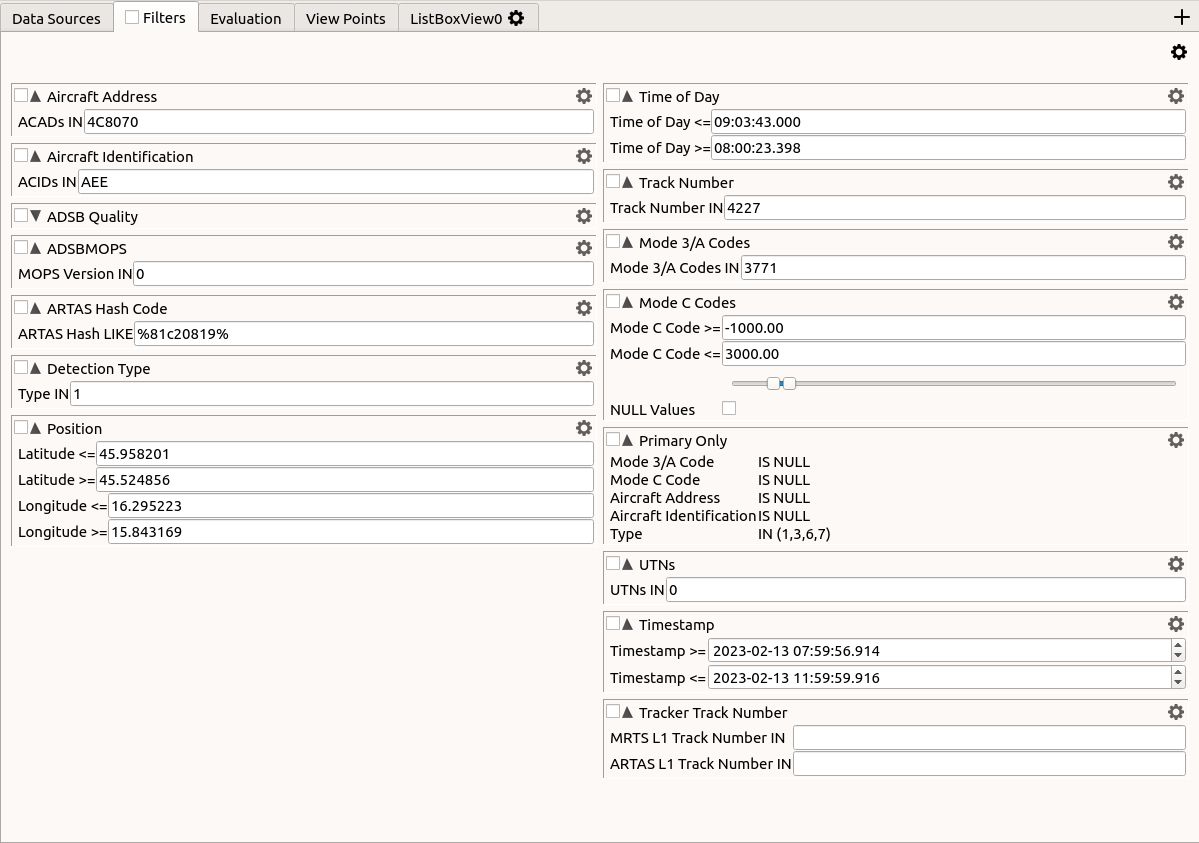
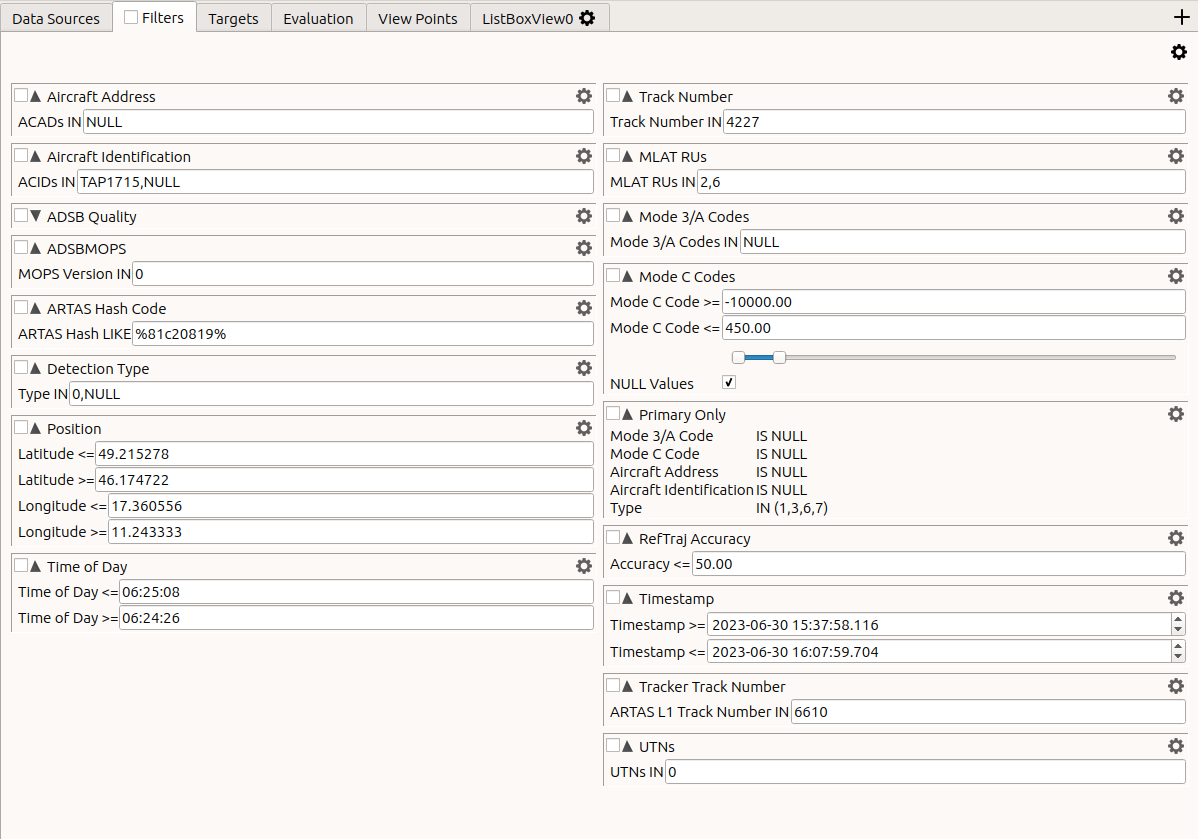
doc up

diff --git a/doc/user_manual/filters/filters.tex b/doc/user_manual/filters/filters.tex
@@ -116,6 +116,16 @@ When active, this filter forces loading of data with the given track numbers, so
 
 Please note that ADS-B target reports can also contain a track number in ASTERIX, but since the information can not currently be mapped to the database (missing in schema), this filter does not influence ADS-B data loading.
 
+\subsection{MLAT RUs Filter}
+
+\begin{figure}[H]
+  \center
+    \includegraphics[width=12cm,frame]{figures/filter_mlatrus.png}
+  \caption{MLAT RUs filter}
+\end{figure}
+
+When active, this filter forces loading of MLAT data where at least one of the given RUs participated.
+
 \subsection{Mode 3/A Codes Filter}
 
 \begin{figure}[H]
@@ -148,6 +158,28 @@ When active, this filter forces loading of data with a barometric altitude insid
 
 When active, this filter forces loading of data without any secondary attributes.
 
+\subsection{RefTraj Accuracy}
+
+\begin{figure}[H]
+  \center
+    \includegraphics[width=12cm,frame]{figures/filter_reftrajacc.png}
+  \caption{Timestamp filter}
+\end{figure}
+
+When active, this filter forces loading of RefTraj data with of a lower Square-Root-Sum value of the standard deviations than the given threshold.
+
+
+\subsection{Timestamp Filter}
+
+\begin{figure}[H]
+  \center
+    \includegraphics[width=12cm,frame]{figures/filter_timestamp.png}
+  \caption{Timestamp filter}
+\end{figure}
+
+When active, this filter forces loading of data with the EPOCH timestamp inside the given thresholds (in YYYY-mm-DD HH:MM:SS.SSS).
+
+
 % 
 % \subsection{Tracker Multiple Sources Filter}
 % 
@@ -170,16 +202,6 @@ When active, this filter forces loading of data without any secondary attributes
 This filter works similiar to the 'Track Number' filter, but filters only CAT062 data, and allows for track numbers specific for each data source and existing lines, e.g. '1' or '1,2,3'.\\
 
 It can be used when e.g. several Tracker runs were added in diifferent lines, so that track numbers (from the same target) for each run can be specified seperately. \\
-
-\subsection{Timestamp Filter}
-
-\begin{figure}[H]
-  \center
-    \includegraphics[width=12cm,frame]{figures/filter_timestamp.png}
-  \caption{Timestamp filter}
-\end{figure}
-
-When active, this filter forces loading of data with the EPOCH timestamp inside the given thresholds (in YYYY-mm-DD HH:MM:SS.SSS).
 
 \subsection{UTN Filter}
 
